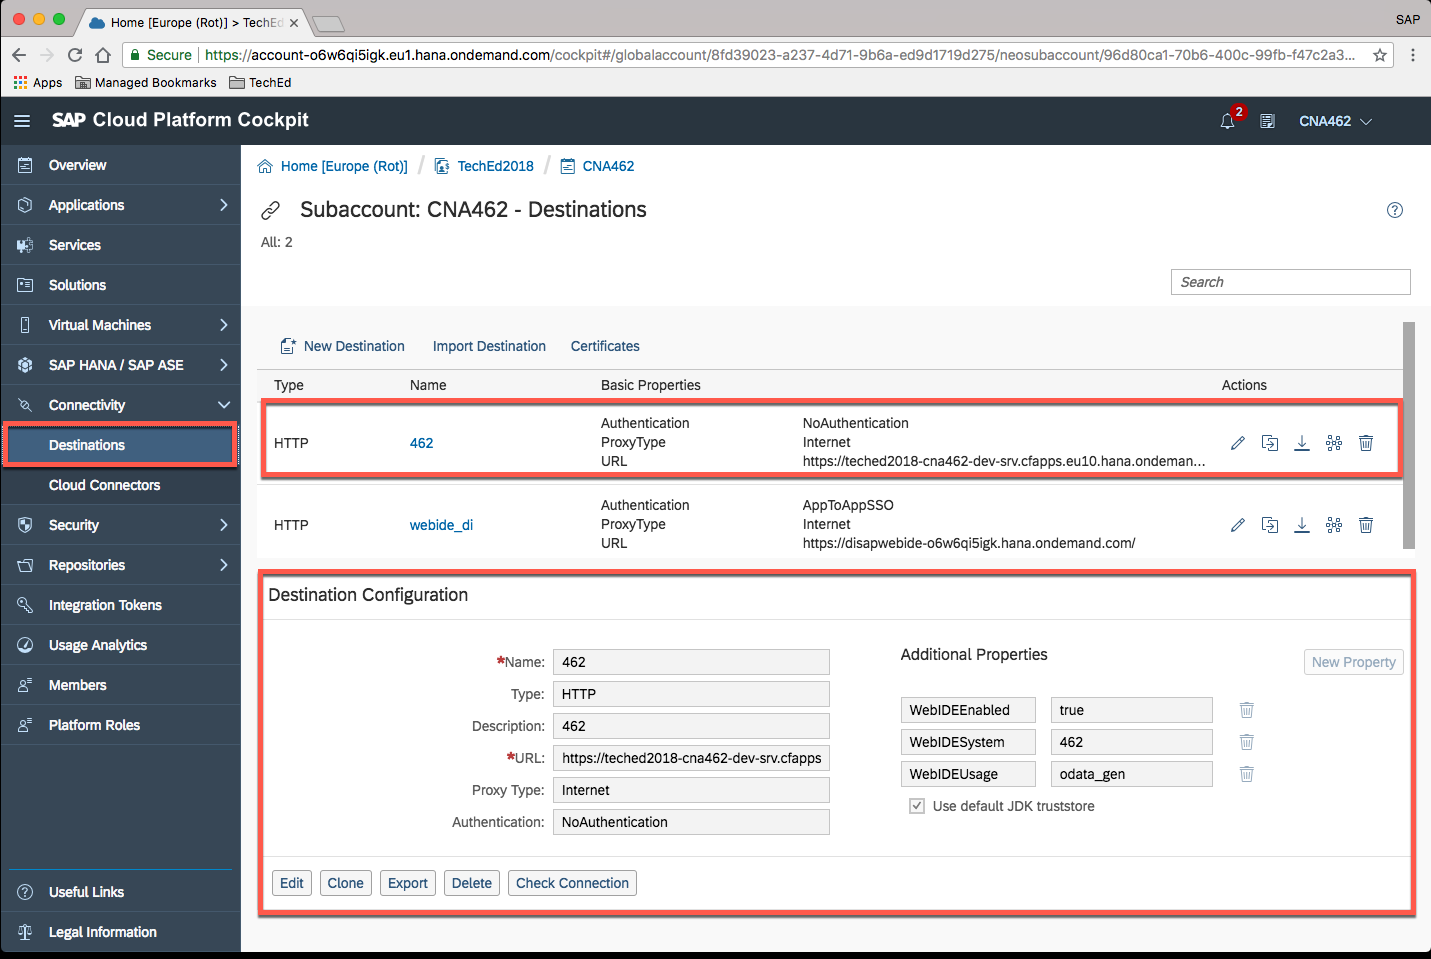
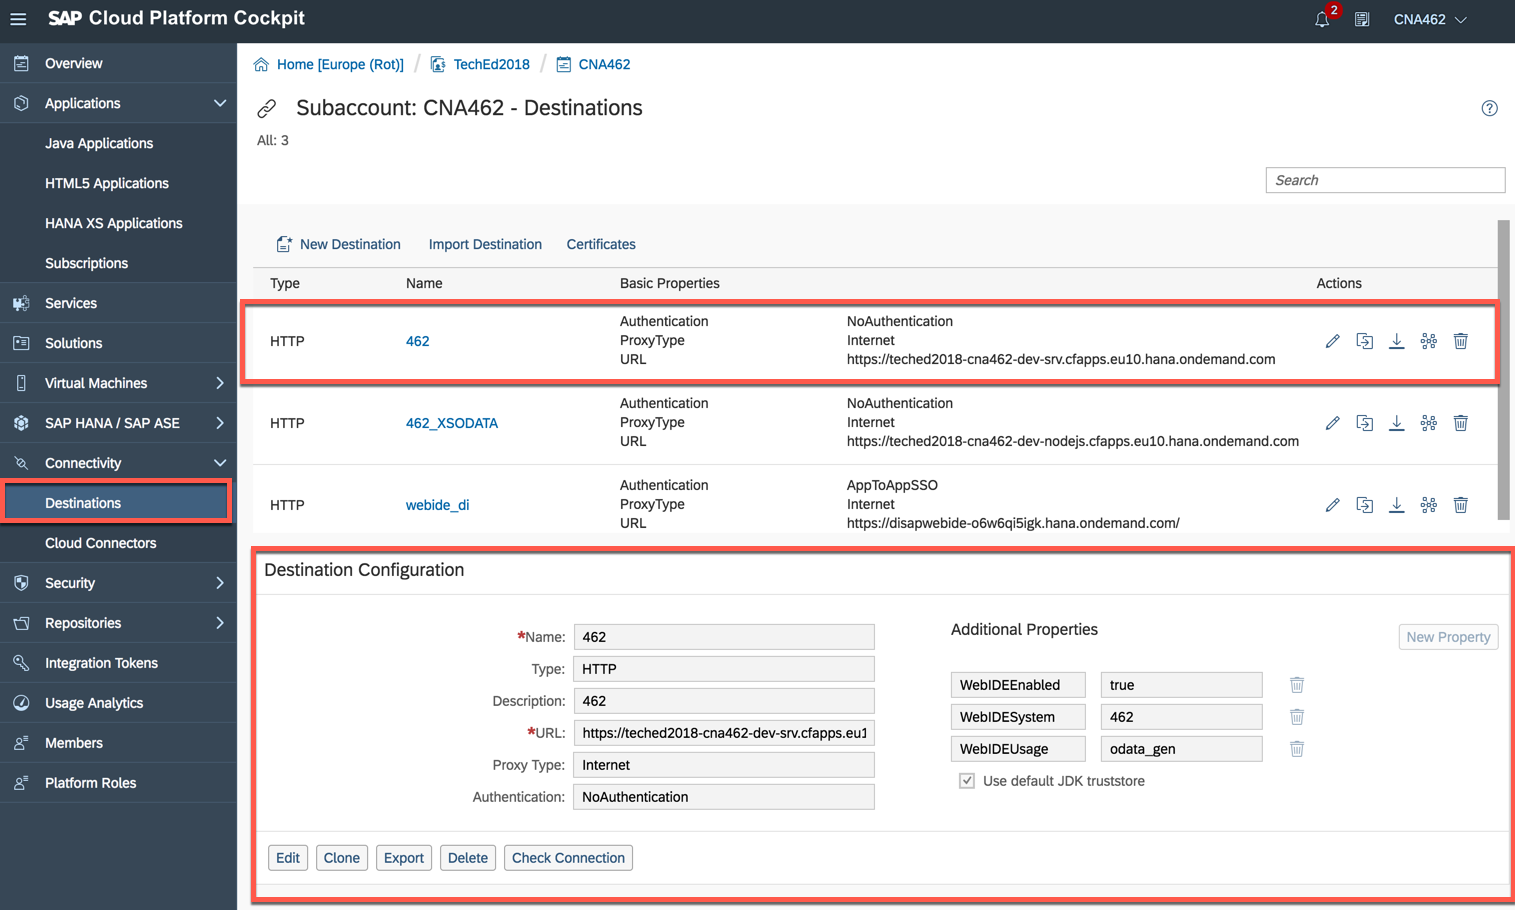
update Exercise01 and Exercise05

Changed region(s): [[0.0, 0.0, 1.0, 1.0], [0.615, 0.6769, 0.8609, 0.8615], [0.8302, 0.1846, 0.8917, 0.2154]]

diff --git a/_excercise_/Exercise05/Exercise05.md b/_excercise_/Exercise05/Exercise05.md
@@ -126,7 +126,7 @@ In this exercise, we will consume the Node.js service to create the dashboard.
 
 	![](images/7.png)
 
-1. On the "Descriptor Editor", click on *Data Sources* tab.  Click on **+** button in the *OData Service* section.
+1. On the "Descriptor Editor", click on *Data Sources* tab.  Click on **+** button in the *OData Services* section.
 
 	![](images/8.png)
 
@@ -272,7 +272,7 @@ In this exercise, we will consume the Node.js service to create the dashboard.
 	
 1. Congratualtions!  You have completed all exercises for this hands-on session.
 
-	![](images/27.jpg)
+	![](images/27.png) 
 
 
 ## Summary

diff --git a/_excercise_/Exercise01/Exercise01.md b/_excercise_/Exercise01/Exercise01.md
@@ -75,7 +75,11 @@ You need SAP Cloud Platform Neo account to access "SAP Web IDE Full-Stack" and t
 
 1.	From SAP Cloud Platform Cockpit, click on **Destination**. The destination **462** has configured to access the Java service.
 
-	![](images/6.png) 
+	![](images/6.png)  
+
+1.	The destination **462_XSODATA** has configured to access the Node.js service.
+
+	![](images/6-1.png)
 	
 1.	From SAP Cloud Platform Cockpit, click on **Services**. Search for "SAP Web IDE Full-Stack" service.
 
